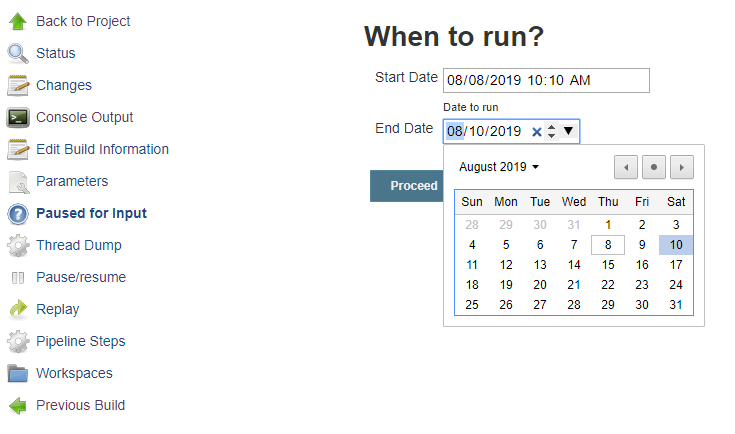
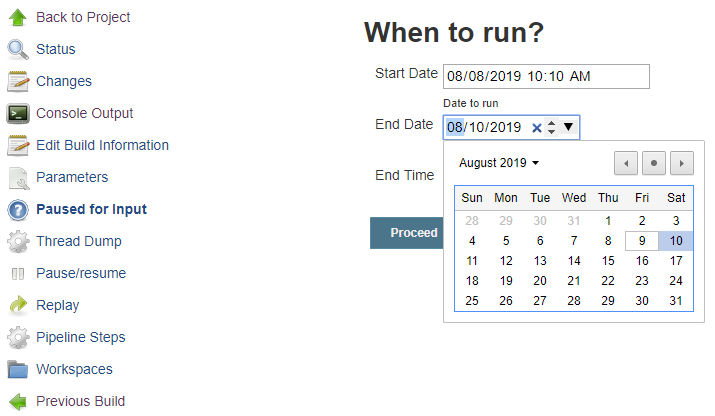
Updated README with screenshots

diff --git a/README.md b/README.md
@@ -19,22 +19,6 @@ Thanks to Github User:
 
 ## About parameters:
 
-### Class: DatePickerDefinition
-
-- Name: Mandatory
-  
-- Description: Optional
-  
-- Default Value:
-
-  1. Can be blank.
-
-  2. Format: `yyyy-MM-dd`
-
-     Example: `2020-01-01`
- 
-     Defaulted to ISO format `yyyy-MM-dd` (output of `<input type="date"/>`)
-
 ### Class: DateTimePickerDefinition
 
 - Name: Mandatory
@@ -51,6 +35,22 @@ Thanks to Github User:
  
      Defaulted to ISO format `yyyy-MM-dd'T'HH:mm` (output of `<input type="datetime-local"/>`)
 
+### Class: DatePickerDefinition
+
+- Name: Mandatory
+  
+- Description: Optional
+  
+- Default Value:
+
+  1. Can be blank.
+
+  2. Format: `yyyy-MM-dd`
+
+     Example: `2020-01-01`
+ 
+     Defaulted to `yyyy-MM-dd` format (output of `<input type="date"/>`)
+
 ### Class: TimePickerDefinition
 
 - Name: Mandatory
@@ -65,7 +65,7 @@ Thanks to Github User:
 
      Example: `14:10`
  
-     Defaulted to ISO format `HH:mm` (output of `<input type="time"/>`)
+     Defaulted to `HH:mm` format (output of `<input type="time"/>`)
 
 
 ### Usage:
@@ -113,6 +113,7 @@ node {
 
 ![Screenshot](usage/userinput-datetime.png)
 ![Screenshot](usage/userinput-date.png)
+![Screenshot](usage/userinput-time.png)
 
 ### Console Output:
 ```
@@ -120,7 +121,7 @@ Started by user VIMALRAJ CHANDRA SEKARAN
 Running in Durability level: MAX_SURVIVABILITY
 [Pipeline] Start of Pipeline
 [Pipeline] node
-Running on Jenkins in C:\Program Files (x86)\Jenkins\workspace\FirstPipelineJob
+Running on Jenkins in C:\Program Files (x86)\Jenkins\workspace\DatePickerPipelineJob
 [Pipeline] {
 [Pipeline] stage
 [Pipeline] { (Init)
@@ -135,6 +136,8 @@ Approved by VIMALRAJ CHANDRA SEKARAN
 Date to run: 2019-08-08T10:10
 [Pipeline] echo
 Date to wait: 2019-08-10
+[Pipeline] echo
+End Time: 16:10
 [Pipeline] }
 [Pipeline] // node
 [Pipeline] End of Pipeline
